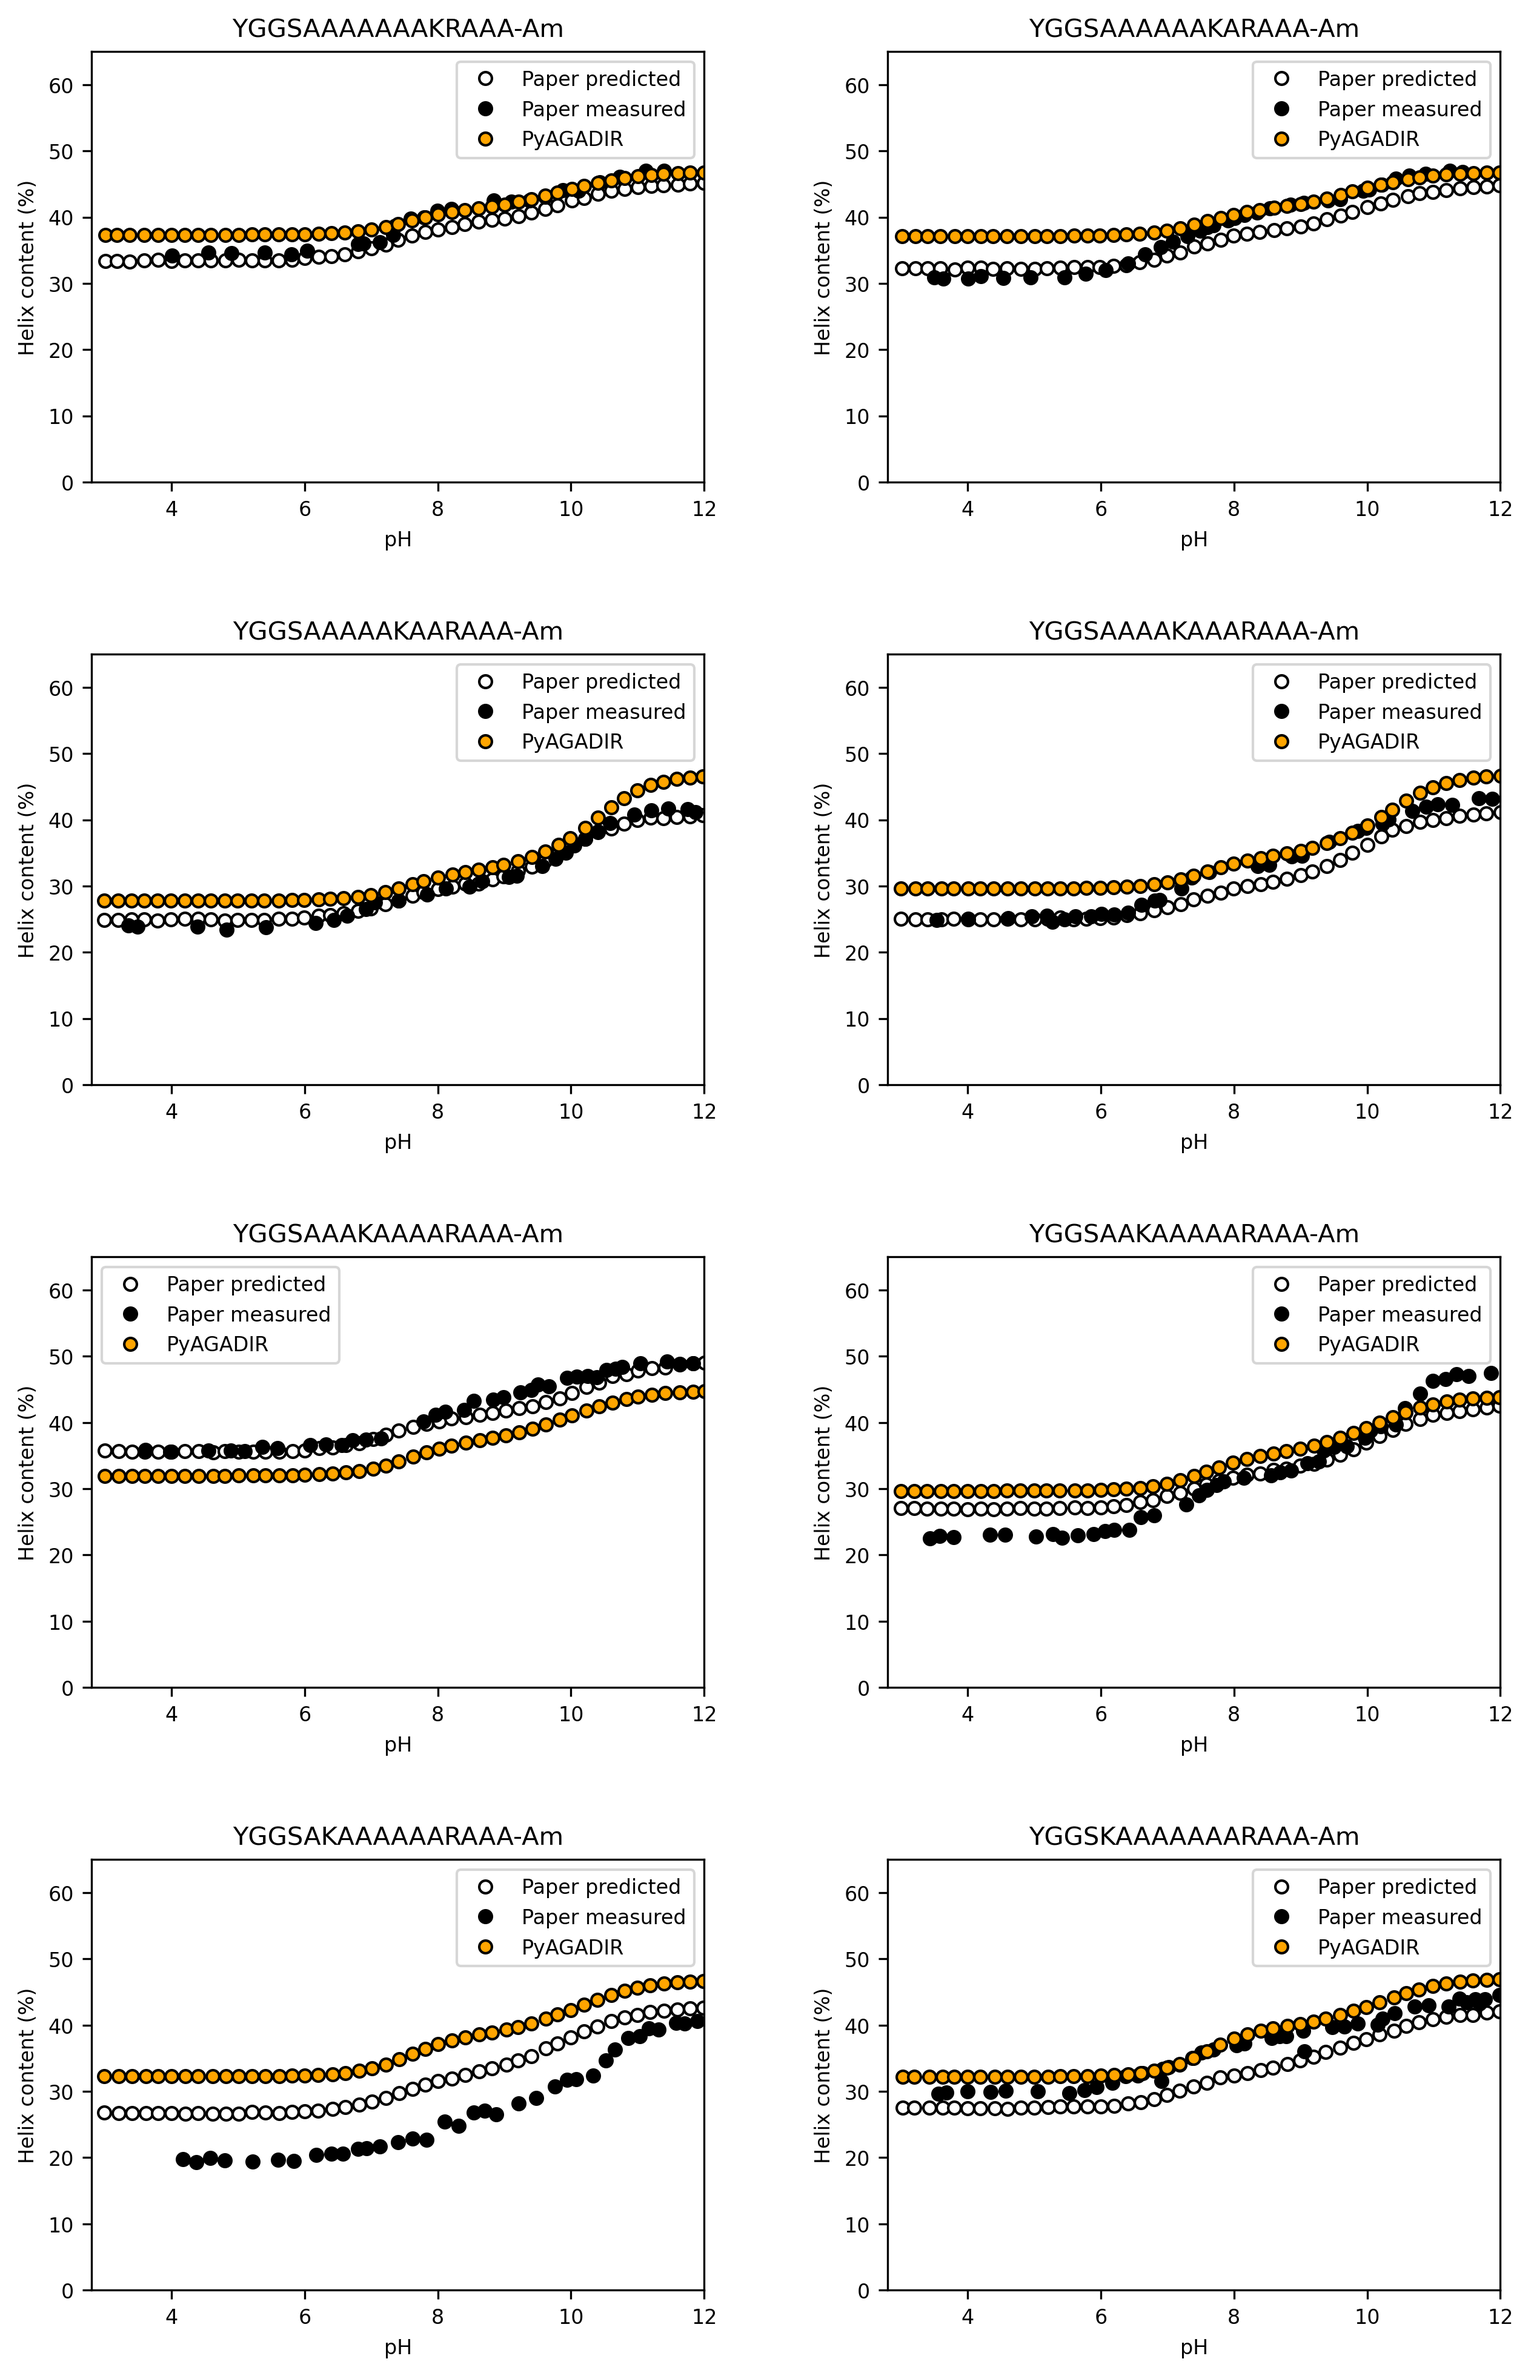
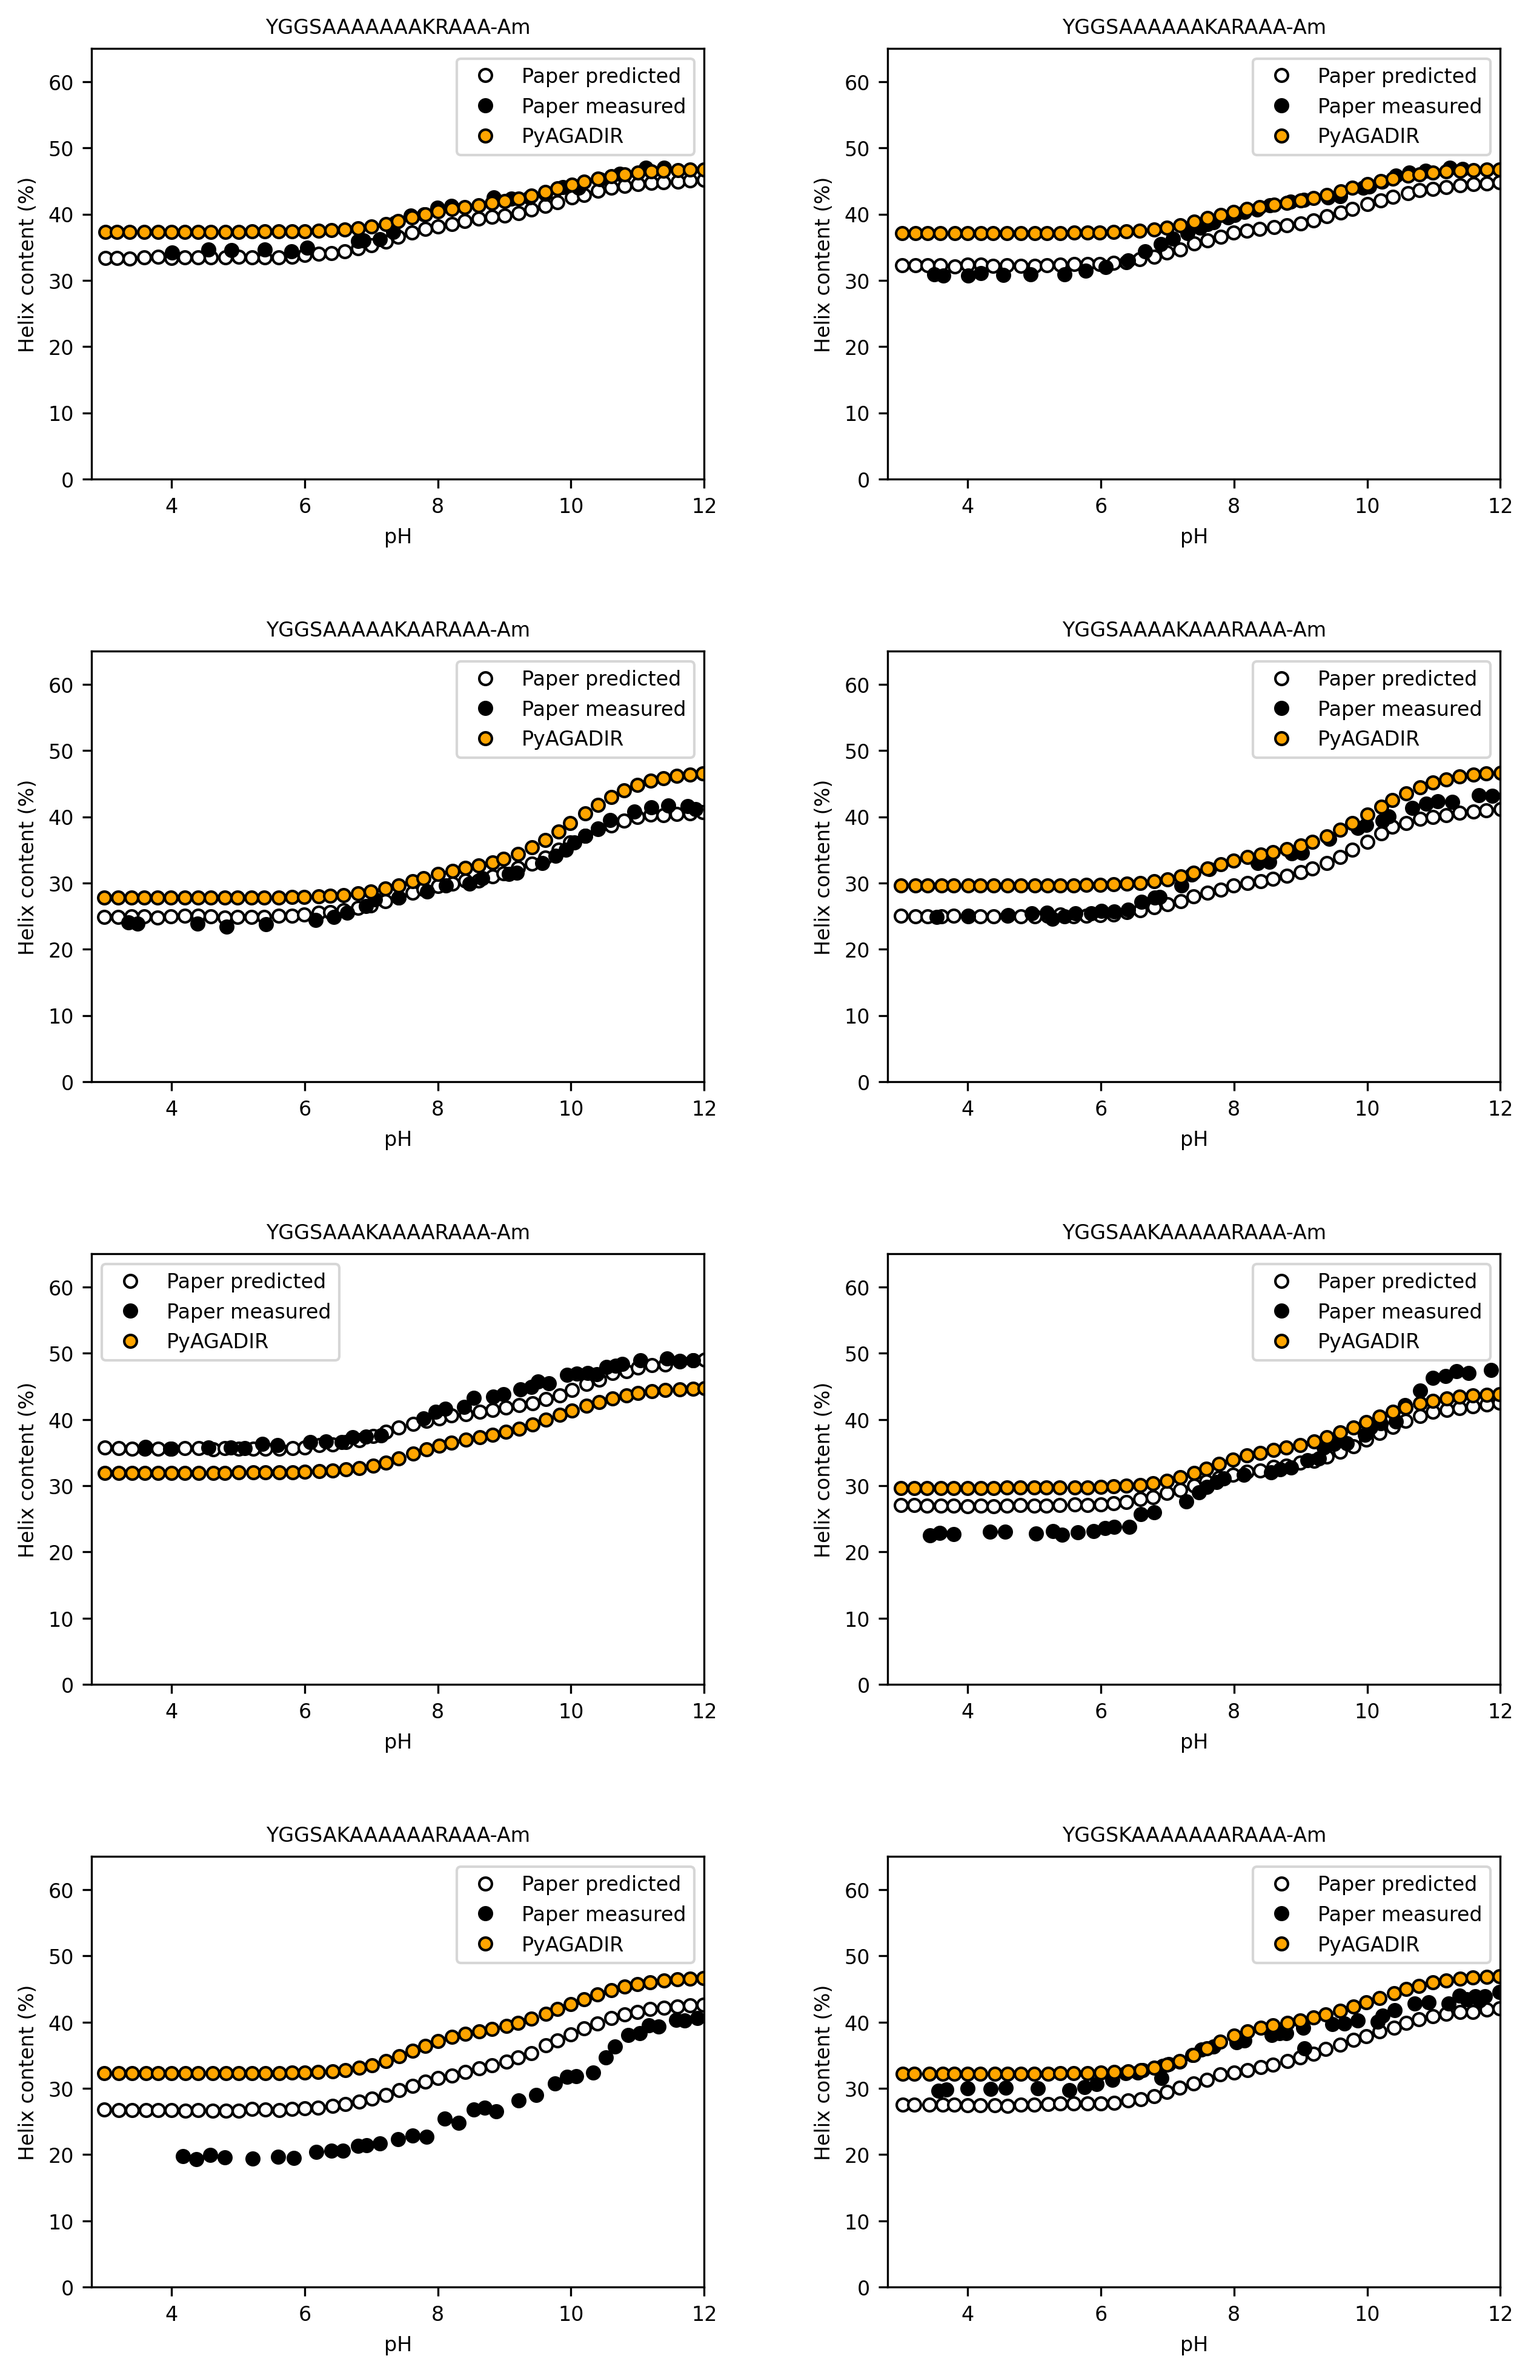
finalize the temperature validation plot, they look bad

diff --git a/pyagadir/validation.py b/pyagadir/validation.py
@@ -5,7 +5,7 @@ from importlib import resources
 from pathlib import Path
 
 
-TITLE_FONT_SIZE = 10
+TITLE_FONT_SIZE = 8
 LEGEND_FONT_SIZE = 8
 
 def get_package_data_dir():
@@ -364,10 +364,34 @@ def reproduce_munoz_1995_figure_3(method="1s"):
     # Create figure
     fig, axs = plt.subplots(3, 2, figsize=(8, 12))
     
+    for figname, ax in zip(data.keys(), axs.flatten()):
+        fig_data = data[figname]
+        peptide = fig_data["peptide"]
+        xvals = fig_data["temperatures"]
+        paper_measured_data = fig_data["helicity"]
+        ncap = fig_data["ncap"]
+        ccap = fig_data["ccap"]
 
-
-
-
+        pyagadir_predicted_data_helix = []
+        for temp in xvals:
+            model = AGADIR(method=method, T=temp, M=0.025, pH=7.0)
+            result = model.predict(peptide, ncap=ncap, ccap=ccap)
+            pyagadir_predicted_data_helix.append(result.get_percent_helix())
+            
+        title = peptide
+        if ncap is not None:
+            title = f"{ncap}-{title}"
+        if ccap is not None:
+            title += f"-{ccap}"
+        xlabel = "Temperature (°C)"
+        _, ax = plot_peptides_helix_content(paper_measured_data,
+                                            pyagadir_predicted_data_helix, 
+                                            xvals,
+                                            title,
+                                            xlabel,
+                                            ncap, 
+                                            ccap,
+                                            ax=ax)
 
     # Adjust spacing between subplots
     plt.subplots_adjust(hspace=0.4, wspace=0.3)

diff --git a/README.md b/README.md
@@ -208,8 +208,8 @@ Below is a validation plot for Figure 3 from Munoz & Serrano (1995), showing tem
 
 
 ## Questions / To Do
-* Temperature scaling of hydrogen bonds have been added, but what about the intrinsic energies (Munoz & Serrano, 1994)?
-* Do we need to add the hydrophobic term (Munoz & Serrano, 1994)?
+* Temperature scaling of hydrogen bonds have been added, but what about the intrinsic energies (Munoz & Serrano, 1995, https://doi.org/10.1006/jmbi.1994.0024)?
+* Do we need to add the hydrophobic term (Munoz & Serrano, 1995, https://doi.org/10.1006/jmbi.1994.0024)?
 * Based on the validation plots, the model generally shows the correct trend, but some of the pH-dependent electrostatic energies look like they need work.
 * Test correct functioning of staple term or schellman term.
 * We need to locate a source for the N- and C-terminal pKa values for the individual amino acids. Currently using average value from Stryer.
